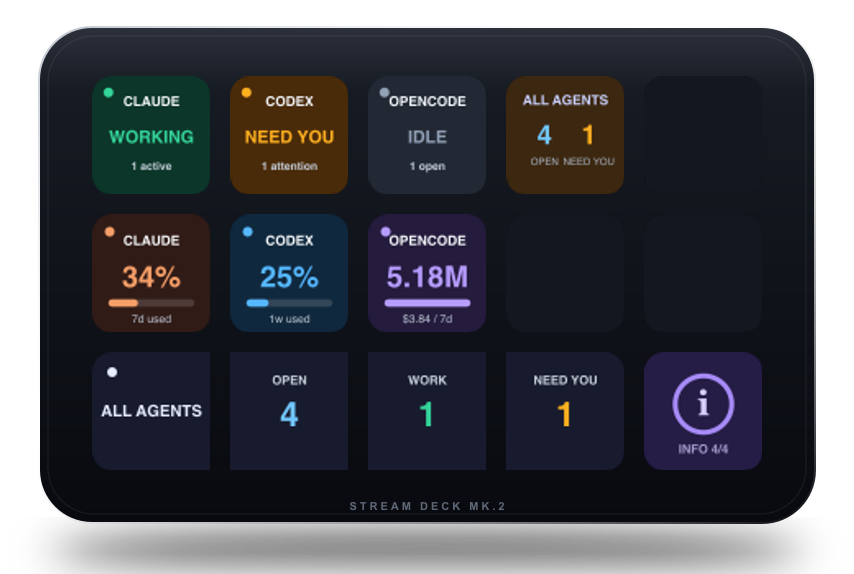
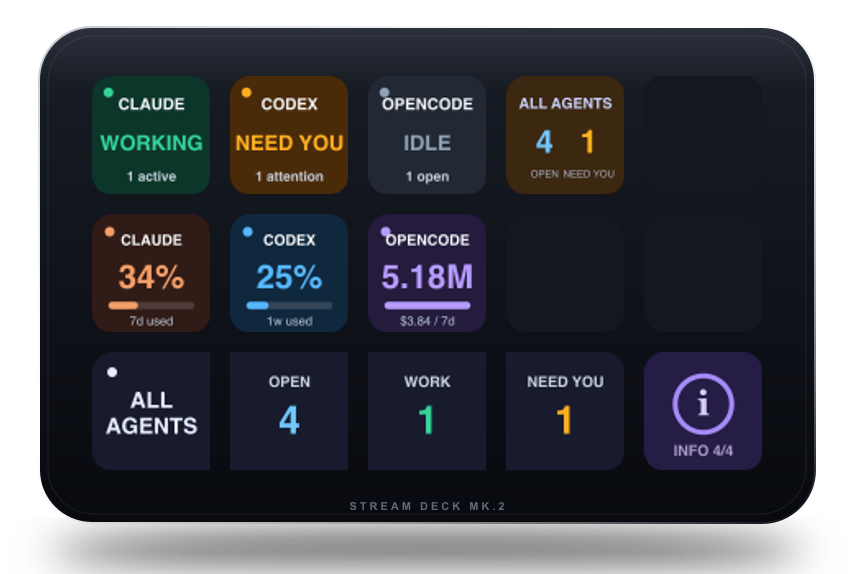
fix(render): enlarge type on keys too small for the full layout
Verified on a Stream Deck MK.2: at 72px the scaled-down canvas was
readable but tight. Where the hint line is dropped the freed space now
goes to the rows that carry information, and a long InfoBar heading
breaks at its space instead of shrinking to fit one line.

The summary labels stay at their original size because the two sit side
by side and collide above 8px. The Neo path renders byte-identically.

diff --git a/src/render.ts b/src/render.ts
@@ -118,19 +118,31 @@ async function renderInfoTile(tile: InfoTile | undefined, background: string, fi
   const radius = 15;
   const shape = `<rect x="${first ? 0 : -radius}" y="0" width="${96 + (first ? 0 : radius) + (last ? 0 : radius)}" height="96" rx="${radius}" fill="${background}"/>`;
   if (!tile) return keyToRgba(shape, size);
+  const roomy = size.height >= HINT_MIN_HEIGHT;
   if (tile.head) {
-    const caption = tile.caption && size.height >= HINT_MIN_HEIGHT
+    const caption = tile.caption && roomy
       ? `<text x="48" y="72" text-anchor="middle" fill="#8e9bb0" font-family="-apple-system,sans-serif" font-size="8">${escapeXml(tile.caption)}</text>`
       : "";
-    return keyToRgba(`${shape}<circle cx="16" cy="16" r="4" fill="${tile.accent}"/><text x="48" y="52" text-anchor="middle" fill="${tile.accent}" font-family="-apple-system,sans-serif" font-size="${tile.value.length > 8 ? 13 : 16}" font-weight="900">${escapeXml(tile.value)}</text>${caption}`, size);
+    // Small keys have no room for a long name on one line, so break it at the space.
+    const words = tile.value.split(" ");
+    const lines = !roomy && words.length > 1 && tile.value.length > 8 ? words : [tile.value];
+    const scale = roomy ? 1 : 1.15;
+    const fontSize = Math.round((Math.max(...lines.map((line) => line.length)) > 8 ? 13 : 16) * scale);
+    const top = (roomy ? 52 : 56) - (lines.length - 1) * fontSize * 0.6;
+    const text = lines
+      .map((line, index) => `<tspan x="48" y="${Math.round(top + index * fontSize * 1.15)}">${escapeXml(line)}</tspan>`)
+      .join("");
+    return keyToRgba(`${shape}<circle cx="16" cy="16" r="4" fill="${tile.accent}"/><text text-anchor="middle" fill="${tile.accent}" font-family="-apple-system,sans-serif" font-size="${fontSize}" font-weight="900">${text}</text>${caption}`, size);
   }
   const bar = typeof tile.percent === "number"
-    ? `<rect x="13" y="72" width="70" height="6" rx="3" fill="#ffffff24"/><rect x="13" y="72" width="${Math.max(0, Math.min(70, Math.round(70 * tile.percent / 100)))}" height="6" rx="3" fill="${tile.accent}"/>`
+    ? `<rect x="13" y="${roomy ? 72 : 76}" width="70" height="6" rx="3" fill="#ffffff24"/><rect x="13" y="${roomy ? 72 : 76}" width="${Math.max(0, Math.min(70, Math.round(70 * tile.percent / 100)))}" height="6" rx="3" fill="${tile.accent}"/>`
     : "";
-  const caption = tile.caption && size.height >= HINT_MIN_HEIGHT
+  const caption = tile.caption && roomy
     ? `<text x="48" y="80" text-anchor="middle" fill="#8e9bb0" font-family="-apple-system,sans-serif" font-size="8">${escapeXml(tile.caption)}</text>`
     : "";
-  return keyToRgba(`${shape}<text x="48" y="26" text-anchor="middle" fill="#cbd4df" font-family="-apple-system,sans-serif" font-size="10" font-weight="700">${escapeXml(tile.title)}</text><text x="48" y="60" text-anchor="middle" fill="${tile.accent}" font-family="-apple-system,sans-serif" font-size="${tile.value.length > 4 ? 22 : 28}" font-weight="900">${escapeXml(tile.value)}</text>${bar}${caption}`, size);
+  const title = roomy ? { size: 10, y: 26 } : { size: 12, y: 28 };
+  const value = roomy ? { size: tile.value.length > 4 ? 22 : 28, y: 60 } : { size: tile.value.length > 4 ? 25 : 32, y: 66 };
+  return keyToRgba(`${shape}<text x="48" y="${title.y}" text-anchor="middle" fill="#cbd4df" font-family="-apple-system,sans-serif" font-size="${title.size}" font-weight="700">${escapeXml(tile.title)}</text><text x="48" y="${value.y}" text-anchor="middle" fill="${tile.accent}" font-family="-apple-system,sans-serif" font-size="${value.size}" font-weight="900">${escapeXml(tile.value)}</text>${bar}${caption}`, size);
 }
 
 export async function renderProviderKey(provider: ProviderSnapshot, size: Dimension = DEFAULT_KEY_SIZE): Promise<Buffer> {
@@ -142,10 +154,15 @@ export async function renderProviderKey(provider: ProviderSnapshot, size: Dimens
       ? `${provider.workingCount} active`
       : `${provider.openCount} open`;
   const footer = provider.state === "attention" ? "tap to acknowledge" : "live backend";
-  const hint = size.height < HINT_MIN_HEIGHT
-    ? ""
-    : `<text x="48" y="89" text-anchor="middle" fill="#718095" font-family="-apple-system,BlinkMacSystemFont,sans-serif" font-size="7">${footer}</text>`;
-  return keyToRgba(`<rect width="96" height="96" rx="15" fill="${state.background}"/><circle cx="13" cy="13" r="4" fill="${state.accent}"/><text x="48" y="24" text-anchor="middle" fill="#f3f6fa" font-family="-apple-system,BlinkMacSystemFont,sans-serif" font-size="11" font-weight="800">${brand.name}</text><text x="48" y="54" text-anchor="middle" fill="${state.accent}" font-family="-apple-system,BlinkMacSystemFont,sans-serif" font-size="14" font-weight="900">${state.label}</text><text x="48" y="76" text-anchor="middle" fill="#c6d0dc" font-family="-apple-system,BlinkMacSystemFont,sans-serif" font-size="9" font-weight="600">${escapeXml(detail)}</text>${hint}`, size);
+  // Without the hint line the remaining rows can grow into the freed space.
+  const roomy = size.height >= HINT_MIN_HEIGHT;
+  const hint = roomy
+    ? `<text x="48" y="89" text-anchor="middle" fill="#718095" font-family="-apple-system,BlinkMacSystemFont,sans-serif" font-size="7">${footer}</text>`
+    : "";
+  const type = roomy
+    ? { name: 11, nameY: 24, label: 14, labelY: 54, detail: 9, detailY: 76 }
+    : { name: 13, nameY: 27, label: 17, labelY: 60, detail: 11, detailY: 85 };
+  return keyToRgba(`<rect width="96" height="96" rx="15" fill="${state.background}"/><circle cx="13" cy="13" r="4" fill="${state.accent}"/><text x="48" y="${type.nameY}" text-anchor="middle" fill="#f3f6fa" font-family="-apple-system,BlinkMacSystemFont,sans-serif" font-size="${type.name}" font-weight="800">${brand.name}</text><text x="48" y="${type.labelY}" text-anchor="middle" fill="${state.accent}" font-family="-apple-system,BlinkMacSystemFont,sans-serif" font-size="${type.label}" font-weight="900">${state.label}</text><text x="48" y="${type.detailY}" text-anchor="middle" fill="#c6d0dc" font-family="-apple-system,BlinkMacSystemFont,sans-serif" font-size="${type.detail}" font-weight="600">${escapeXml(detail)}</text>${hint}`, size);
 }
 
 export async function renderUsageKey(usage: UsageSnapshot, size: Dimension = DEFAULT_KEY_SIZE): Promise<Buffer> {
@@ -161,20 +178,30 @@ export async function renderUsageKey(usage: UsageSnapshot, size: Dimension = DEF
   const footer = usage.error
     ? (usage.windows.length ? "stale · tap refresh" : "data unavailable")
     : usage.provider === "opencode" ? `${formatCurrency(usage.costUsd || 0)} / 7d` : subtitle;
-  return keyToRgba(`<rect width="96" height="96" rx="15" fill="${brand.background}"/><circle cx="14" cy="14" r="4" fill="${brand.accent}"/><text x="48" y="25" text-anchor="middle" fill="#f7fafc" font-family="-apple-system,BlinkMacSystemFont,sans-serif" font-size="11" font-weight="800">${brand.name}</text><text x="48" y="59" text-anchor="middle" fill="${brand.accent}" font-family="-apple-system,BlinkMacSystemFont,sans-serif" font-size="24" font-weight="800">${escapeXml(headline)}</text><rect x="13" y="69" width="70" height="6" rx="3" fill="#ffffff24"/><rect x="13" y="69" width="${Math.max(0, Math.min(70, width))}" height="6" rx="3" fill="${brand.accent}"/><text x="48" y="88" text-anchor="middle" fill="#bdc8d6" font-family="-apple-system,BlinkMacSystemFont,sans-serif" font-size="9">${escapeXml(footer)}</text>`, size);
+  const roomy = size.height >= HINT_MIN_HEIGHT;
+  const type = roomy
+    ? { name: 11, nameY: 25, value: 24, valueY: 59, barY: 69, footer: 9, footerY: 88 }
+    : { name: 12, nameY: 25, value: 27, valueY: 60, barY: 71, footer: 10, footerY: 90 };
+  return keyToRgba(`<rect width="96" height="96" rx="15" fill="${brand.background}"/><circle cx="14" cy="14" r="4" fill="${brand.accent}"/><text x="48" y="${type.nameY}" text-anchor="middle" fill="#f7fafc" font-family="-apple-system,BlinkMacSystemFont,sans-serif" font-size="${type.name}" font-weight="800">${brand.name}</text><text x="48" y="${type.valueY}" text-anchor="middle" fill="${brand.accent}" font-family="-apple-system,BlinkMacSystemFont,sans-serif" font-size="${type.value}" font-weight="800">${escapeXml(headline)}</text><rect x="13" y="${type.barY}" width="70" height="6" rx="3" fill="#ffffff24"/><rect x="13" y="${type.barY}" width="${Math.max(0, Math.min(70, width))}" height="6" rx="3" fill="${brand.accent}"/><text x="48" y="${type.footerY}" text-anchor="middle" fill="#bdc8d6" font-family="-apple-system,BlinkMacSystemFont,sans-serif" font-size="${type.footer}">${escapeXml(footer)}</text>`, size);
 }
 
 export async function renderSummaryKey(snapshot: DashboardSnapshot, size: Dimension = DEFAULT_KEY_SIZE): Promise<Buffer> {
   const attention = snapshot.attentionCount > 0;
   const background = attention ? "#3c2710" : "#202339";
-  const hint = size.height < HINT_MIN_HEIGHT
-    ? ""
-    : `<text x="48" y="88" text-anchor="middle" fill="#717f94" font-family="-apple-system,sans-serif" font-size="8">tap overview</text>`;
-  return keyToRgba(`<rect width="96" height="96" rx="15" fill="${background}"/><text x="48" y="23" text-anchor="middle" fill="#c9d2ff" font-family="-apple-system,sans-serif" font-size="11" font-weight="800">ALL AGENTS</text><text x="31" y="55" text-anchor="middle" fill="#71c7ff" font-family="-apple-system,sans-serif" font-size="22" font-weight="900">${snapshot.openCount}</text><text x="67" y="55" text-anchor="middle" fill="#ffb020" font-family="-apple-system,sans-serif" font-size="22" font-weight="900">${snapshot.attentionCount}</text><text x="31" y="72" text-anchor="middle" fill="#aab6c7" font-family="-apple-system,sans-serif" font-size="8">OPEN</text><text x="67" y="72" text-anchor="middle" fill="#aab6c7" font-family="-apple-system,sans-serif" font-size="8">NEED YOU</text>${hint}`, size);
+  const roomy = size.height >= HINT_MIN_HEIGHT;
+  const hint = roomy
+    ? `<text x="48" y="88" text-anchor="middle" fill="#717f94" font-family="-apple-system,sans-serif" font-size="8">tap overview</text>`
+    : "";
+  const type = roomy
+    ? { title: 11, titleY: 23, count: 22, countY: 55, label: 8, labelY: 72 }
+    // The two labels sit side by side and collide above 8px; only the counts grow.
+    : { title: 12, titleY: 26, count: 26, countY: 62, label: 8, labelY: 82 };
+  return keyToRgba(`<rect width="96" height="96" rx="15" fill="${background}"/><text x="48" y="${type.titleY}" text-anchor="middle" fill="#c9d2ff" font-family="-apple-system,sans-serif" font-size="${type.title}" font-weight="800">ALL AGENTS</text><text x="31" y="${type.countY}" text-anchor="middle" fill="#71c7ff" font-family="-apple-system,sans-serif" font-size="${type.count}" font-weight="900">${snapshot.openCount}</text><text x="67" y="${type.countY}" text-anchor="middle" fill="#ffb020" font-family="-apple-system,sans-serif" font-size="${type.count}" font-weight="900">${snapshot.attentionCount}</text><text x="31" y="${type.labelY}" text-anchor="middle" fill="#aab6c7" font-family="-apple-system,sans-serif" font-size="${type.label}">OPEN</text><text x="67" y="${type.labelY}" text-anchor="middle" fill="#aab6c7" font-family="-apple-system,sans-serif" font-size="${type.label}">NEED YOU</text>${hint}`, size);
 }
 
 export async function renderInfoKey(page: number, total: number, size: Dimension = DEFAULT_KEY_SIZE): Promise<Buffer> {
-  return keyToRgba(`<rect width="96" height="96" rx="15" fill="#251d45"/><circle cx="48" cy="42" r="23" fill="none" stroke="#a78bfa" stroke-width="4"/><text x="48" y="51" text-anchor="middle" fill="#d9ceff" font-family="Georgia,serif" font-size="28" font-weight="700">i</text><text x="48" y="82" text-anchor="middle" fill="#a99bcf" font-family="-apple-system,sans-serif" font-size="10" font-weight="700">INFO ${page + 1}/${total}</text>`, size);
+  const type = size.height >= HINT_MIN_HEIGHT ? { page: 10, pageY: 82 } : { page: 12, pageY: 84 };
+  return keyToRgba(`<rect width="96" height="96" rx="15" fill="#251d45"/><circle cx="48" cy="42" r="23" fill="none" stroke="#a78bfa" stroke-width="4"/><text x="48" y="51" text-anchor="middle" fill="#d9ceff" font-family="Georgia,serif" font-size="28" font-weight="700">i</text><text x="48" y="${type.pageY}" text-anchor="middle" fill="#a99bcf" font-family="-apple-system,sans-serif" font-size="${type.page}" font-weight="700">INFO ${page + 1}/${total}</text>`, size);
 }
 
 export async function renderBlankKey(size: Dimension = DEFAULT_KEY_SIZE): Promise<Buffer> {